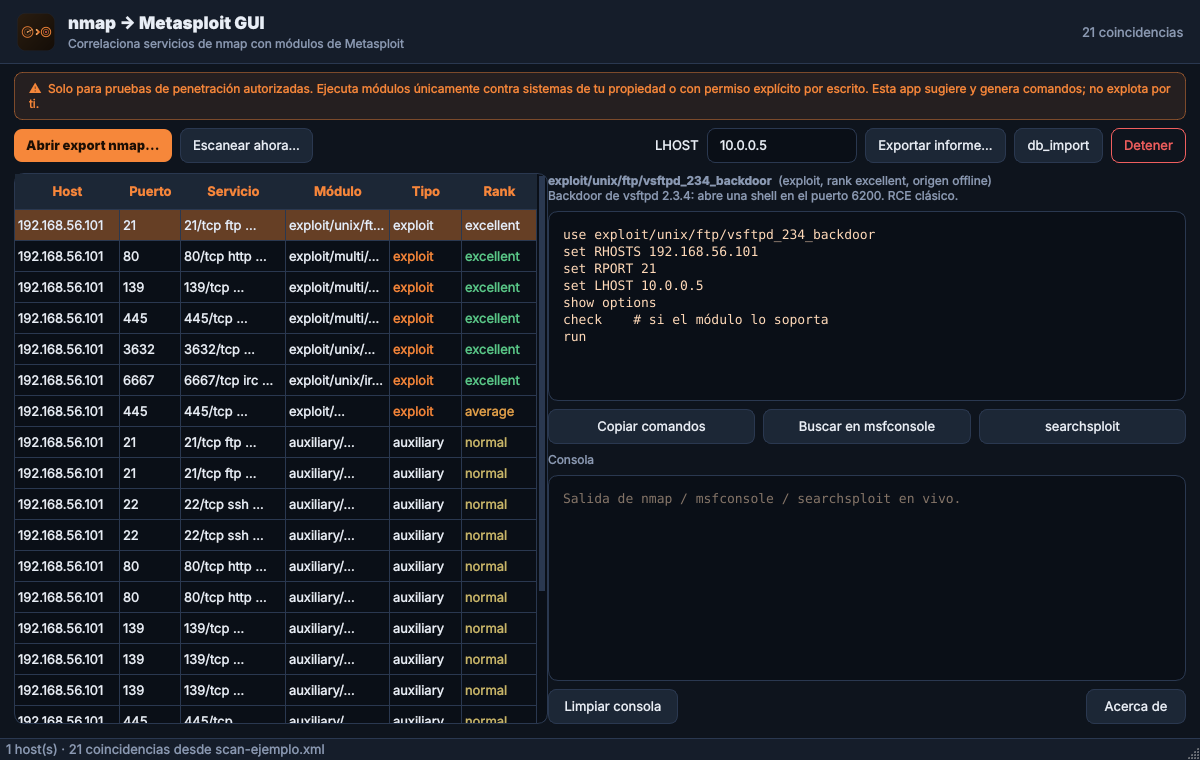
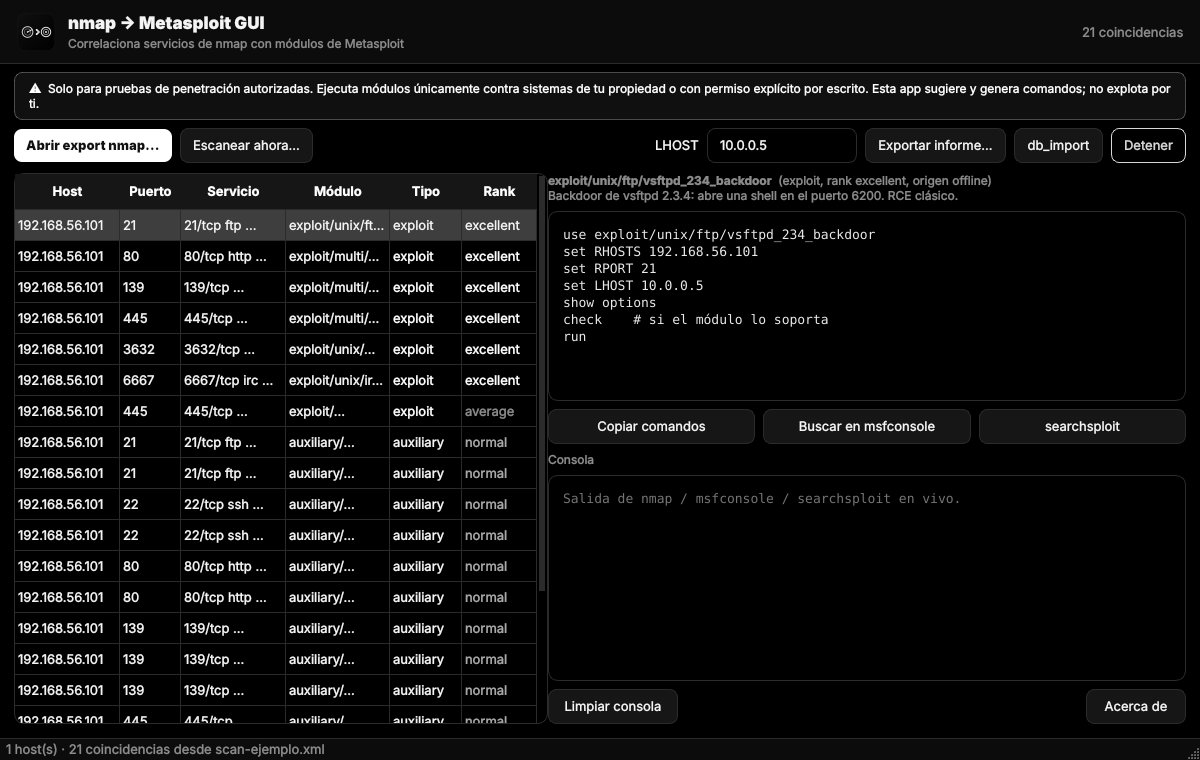
Tema monocromo: blanco y grises sobre negro
Unifica el estilo de las apps a una paleta monocroma (fondo negro puro,
texto y acentos en blanco/grises) para que combine con escritorios de
alto contraste. Icono y capturas actualizados.

Claude-Session: https://claude.ai/code/session_014HLoZssC27RU2acpukCTVp

diff --git a/n2mgui/theme.py b/n2mgui/theme.py
@@ -1,18 +1,18 @@
 """Hoja de estilo (QSS) — base compartida con las demás apps; acento naranja."""
 
-BG = "#0e141d"
-PANEL = "#151d2a"
-PANEL_2 = "#1c2736"
-BORDER = "#2a3850"
-TEXT = "#e8eef7"
-MUTED = "#8a99b3"
-ACCENT = "#f6873a"       # naranja principal
-ACCENT_DK = "#db6a1f"
-CONSOLE_BG = "#0a0f17"
-CONSOLE_TEXT = "#ffd9b8"   # naranja claro para la consola
-OK = "#5ac88a"
-BAD = "#ef5f5f"
-WARN = "#f0c33a"
+BG = "#000000"
+PANEL = "#0c0c0c"
+PANEL_2 = "#161616"
+BORDER = "#2b2b2b"
+TEXT = "#f4f4f4"
+MUTED = "#8c8c8c"
+ACCENT = "#ffffff"       # naranja principal
+ACCENT_DK = "#cccccc"
+CONSOLE_BG = "#000000"
+CONSOLE_TEXT = "#e8e8e8"   # naranja claro para la consola
+OK = "#ffffff"
+BAD = "#d7d7d7"
+WARN = "#a8a8a8"
 
 STYLESHEET = f"""
 * {{
@@ -27,8 +27,8 @@ QLabel#title {{ font-size: 17px; font-weight: 700; color: {TEXT}; }}
 QLabel#subtitle {{ color: {MUTED}; font-size: 12px; }}
 
 QFrame#banner {{
-    background: rgba(246,135,58,0.10);
-    border: 1px solid rgba(246,135,58,0.45);
+    background: rgba(159, 159, 159,0.10);
+    border: 1px solid rgba(159, 159, 159,0.45);
     border-radius: 8px;
 }}
 QLabel#bannerText {{ color: {ACCENT}; font-size: 12px; }}
@@ -40,20 +40,20 @@ QPushButton {{
     padding: 8px 12px;
     color: {TEXT};
 }}
-QPushButton:hover {{ border-color: {ACCENT}; background: #233041; }}
-QPushButton:pressed {{ background: #2a3a4d; }}
+QPushButton:hover {{ border-color: {ACCENT}; background: #2e2e2e; }}
+QPushButton:pressed {{ background: #373737; }}
 QPushButton:disabled {{ color: {MUTED}; background: {PANEL}; }}
 
 QPushButton#primary {{
-    background: {ACCENT}; color: #1c0f04; font-weight: 700; border: none;
+    background: {ACCENT}; color: #121212; font-weight: 700; border: none;
 }}
 QPushButton#primary:hover {{ background: {ACCENT_DK}; }}
-QPushButton#primary:disabled {{ background: #4a3824; color: #ae9177; }}
+QPushButton#primary:disabled {{ background: #3b3b3b; color: #979797; }}
 
 QPushButton#danger {{
     background: transparent; border: 1px solid {BAD}; color: {BAD};
 }}
-QPushButton#danger:hover {{ background: rgba(239,95,95,0.12); }}
+QPushButton#danger:hover {{ background: rgba(138, 138, 138,0.12); }}
 
 QPlainTextEdit, QTextEdit {{
     background: {CONSOLE_BG};
@@ -80,7 +80,7 @@ QTableWidget {{
     border: 1px solid {BORDER};
     border-radius: 10px;
     gridline-color: {BORDER};
-    selection-background-color: rgba(246,135,58,0.22);
+    selection-background-color: rgba(159, 159, 159,0.22);
     selection-color: {TEXT};
 }}
 QTableWidget::item {{ padding: 4px 6px; }}

diff --git a/n2mgui/report.py b/n2mgui/report.py
@@ -54,13 +54,13 @@ def to_html(matches: list[Match], lhost: str = "TU_IP") -> str:
     return f"""<!doctype html><html lang="es"><head><meta charset="utf-8">
 <title>Informe nmap → Metasploit</title>
 <style>
- body{{font-family:system-ui,sans-serif;background:#13100b;color:#f3ede3;margin:24px}}
- h1{{color:#f6873a}} .muted{{color:#b6a992}}
+ body{{font-family:system-ui,sans-serif;background:#000000;color:#f4f4f4;margin:24px}}
+ h1{{color:#ffffff}} .muted{{color:#8c8c8c}}
  table{{border-collapse:collapse;width:100%;margin-top:16px;font-size:13px}}
- th,td{{border:1px solid #3a3326;padding:7px 9px;vertical-align:top;text-align:left}}
- th{{background:#231d12;color:#f6873a}}
- tr.exploit td:first-child{{border-left:3px solid #f6873a}}
- code{{color:#ffb673}} pre{{margin:0;white-space:pre-wrap;color:#d7ffd0;font-size:12px}}
+ th,td{{border:1px solid #2b2b2b;padding:7px 9px;vertical-align:top;text-align:left}}
+ th{{background:#161616;color:#ffffff}}
+ tr.exploit td:first-child{{border-left:3px solid #ffffff}}
+ code{{color:#e8e8e8}} pre{{margin:0;white-space:pre-wrap;color:#cfcfcf;font-size:12px}}
 </style></head><body>
 <h1>Informe nmap → Metasploit</h1>
 <p class="muted">Generado: {datetime.now():%Y-%m-%d %H:%M} · {len(matches)} coincidencias ·

diff --git a/n2mgui/mainwindow.py b/n2mgui/mainwindow.py
@@ -39,8 +39,8 @@ HERE = Path(__file__).resolve().parent
 ICON_PNG = HERE / "resources" / "icon.png"
 
 RANK_COLORS = {
-    "excellent": "#5ac88a", "great": "#7fcf6a", "good": "#b6cf5a",
-    "normal": "#c7b56a", "average": "#e0a04a", "low": "#d98a52", "manual": "#ef5f5f",
+    "excellent": "#ffffff", "great": "#e0e0e0", "good": "#c4c4c4",
+    "normal": "#a8a8a8", "average": "#8c8c8c", "low": "#737373", "manual": "#5a5a5a",
 }
 
 
